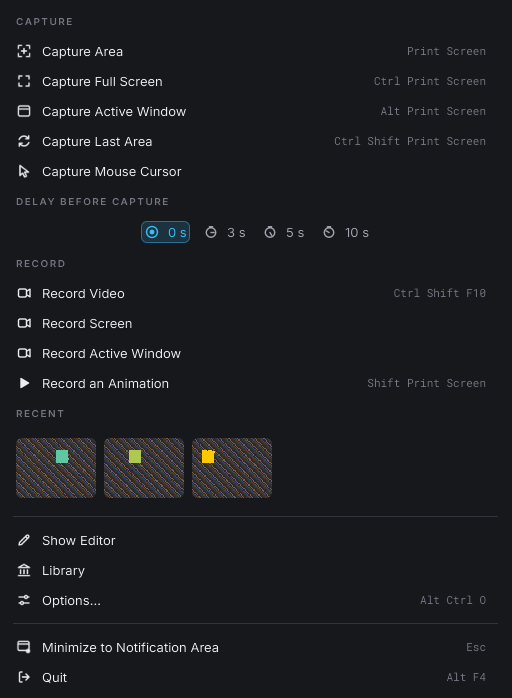
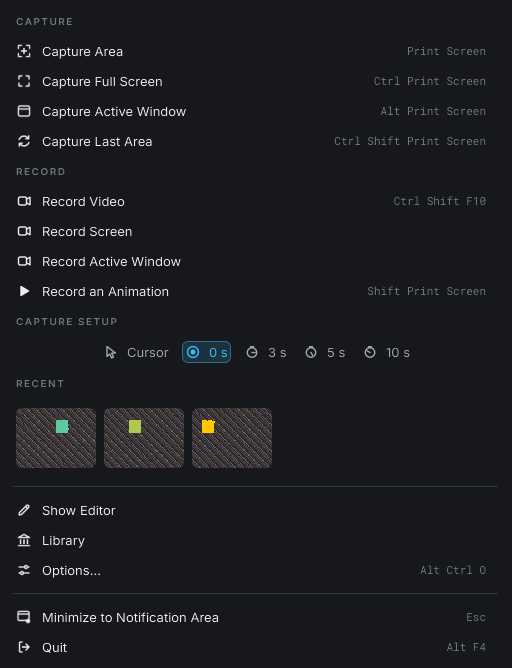
Group shared capture options after recording actions

diff --git a/backlog/design/README.md b/backlog/design/README.md
@@ -739,8 +739,8 @@ the screen to its work.
   last captures as one row of pictures that open in the editor, then the editor, the library,
   the options, the way back behind the icon and the way out. It has no accent: nothing in it acts
   before a choice. Both placements share every command and recent capture: picture then video, a
-  monitor of its own only when there are several, the cursor choice and the waits as one
-  row of exclusive choices. While a recording runs, the home offers to stop or abandon it instead of
+  monitor of its own only when there are several, then one capture-settings row with the cursor
+  toggle and exclusive delay choices, before recent captures. While a recording runs, the home offers to stop or abandon it instead of
   starting another capture. It leaves on a choice, on `Esc`, and when another application
   takes the desktop; a capture started by its key takes it off the screen first. Leaving the hub
   without a choice, or closing the window, leaves nothing on screen: a small notification above
